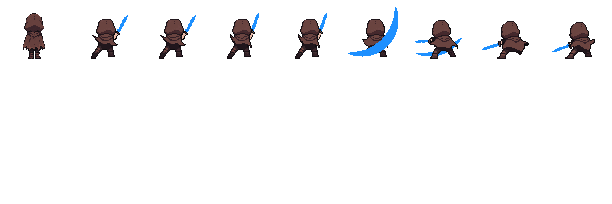
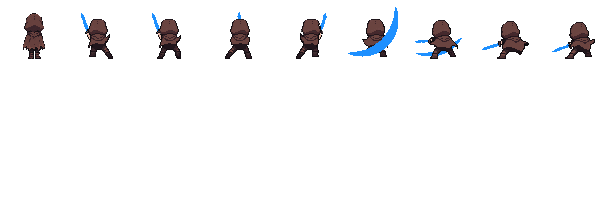
assets: 후면 1타 칼 옮기기(왼쪽 → 오른쪽) PixelLab 장·비교 녹화

diff --git a/assets/concepts/pixellab/player_import/build_attack_back_pl.py b/assets/concepts/pixellab/player_import/build_attack_back_pl.py
@@ -25,8 +25,11 @@ KIT = os.path.join(HERE, 'attack_back_kit')
 # (animate_image, 왼쪽 아래 자세에서 시작, 8장 = full_v3_1~8). 5번째(판정)는 칼이 몸 앞을 지나 안 보이는 장 → 잔상.
 # 6차 (같은 날 사용자: 칼을 꺼내 옮기는 앞부분이 부자연스럽고 정면과 박자가 다름): 정면처럼 칼을 오른쪽 어깨 위로 든 자세에서
 # 시작해 조금 더 들며 버티다가 5번째(0.5)에 내려벤다. 왼쪽 아래에서 꺼내 휘돌리는 1·2번째는 뺌.
+# 7차 (같은 날 사용자: 정면처럼 칼을 왼쪽에서 오른쪽으로 자연스럽게 옮긴 뒤 베야 함): 정면 첫 장처럼 칼을 왼쪽에 세운 자세
+# (오른쪽 위 자세 full_v3_4 를 좌우로 뒤집음 = left_raised)에서 머리 위를 지나 오른쪽 위로 옮기는 4장(e_0~3, PixelLab 시작·끝 지정)
+# → 5번째(0.5) 내려베기 → 마무리.
 PICK = {
-    1: ['full_v3_3', 'full_v3_3', 'full_v3_4', 'full_v3_4', 'full_v3_5', 'full_v3_6', 'full_v3_7', 'full_v3_8'],
+    1: ['e_0', 'e_1', 'e_2', 'e_3', 'full_v3_5', 'full_v3_6', 'full_v3_7', 'full_v3_8'],
 }
 # 휘두르는 장에 겹칠 GPT 잔상: 타 → (8장 중 번호 0부터, GPT 시트 칸). 1타는 아래 SWOOSH 로 대신 (5차)
 ARC = {}
@@ -77,7 +80,7 @@ def main():
     for hit, names in PICK.items():
         cells = [gpt_rows[hit][0]]
         for k, n in enumerate(names):
-            name = n if '_' in n else f'{n[0]}_{n[1]}'  # 'd0' → d_0, 'full_v3_1' 그대로
+            name = n if '_' in n else f'{n[0]}_{n[1]}'  # 'd0' → d_0, 'e_0'·'full_v3_1' 그대로
             f = pb.snap(Image.open(os.path.join(KIT, 'pl_out', f'hit{hit}_{name}.png')).convert('RGBA'), palette)
             if hit in ARC and ARC[hit][0] == k:
                 arc = blue_only(gpt_rows[hit][ARC[hit][1]])

diff --git a/assets/concepts/pixellab/player_import/build_remake_preview.py b/assets/concepts/pixellab/player_import/build_remake_preview.py
@@ -66,9 +66,9 @@ OVERRIDES = {
     # 몸 쪽이 손 (estimate_back_swords.py 로 어림 후 눈으로 맞춤). 칼이 안 보이는 장은 다섯째 값(칼 길이 비율) 0 = 그리지 않음.
     # 후면 1타 2차 (2026-11-18, PixelLab 이 GPT 자세 사이를 다시 그림 attack_back_pl_68.png). 4번째 = 잔상 장 (칼은 잔상 속).
     # 4차: PixelLab 이 1타 전체를 한 번에 이어 그림 (왼쪽 아래 → 왼쪽 위로 휘돌려 → 오른쪽 어깨 위 → 5번째 잔상 → 왼쪽 아래).
-    # 6차: 앞 네 장은 오른쪽 어깨 위로 든 자세 (정면처럼 든 채 버팀)
-    ('backpl1', 1): (47, 36, 61, True), ('backpl1', 2): (47, 36, 61, True), ('backpl1', 3): (46, 36, 71, True),
-    ('backpl1', 4): (46, 36, 71, True), ('backpl1', 5): (34, 30, -90, True, 0), ('backpl1', 6): (31, 40, -176, True),
+    # 7차: 앞 네 장은 칼을 왼쪽에 세운 자세에서 머리 위를 지나 오른쪽 위로 옮김 (정면처럼)
+    ('backpl1', 1): (21, 36, 109, True), ('backpl1', 2): (24, 36, 109, True), ('backpl1', 3): (36, 36, 94, True),
+    ('backpl1', 4): (47, 36, 75, True), ('backpl1', 5): (34, 30, -90, True, 0), ('backpl1', 6): (31, 40, -176, True),
     ('backpl1', 7): (29, 42, -163, True), ('backpl1', 8): (30, 43, -159, True),
     ('backgpt1', 1): (34, 30, -90, True, 0), ('backgpt1', 2): (28, 41, 41, True), ('backgpt1', 3): (32, 34, 50, True),
     ('backgpt1', 4): (34, 30, -90, True, 0), ('backgpt1', 5): (36, 43, -157, True), ('backgpt1', 6): (38, 37, -147, True),
